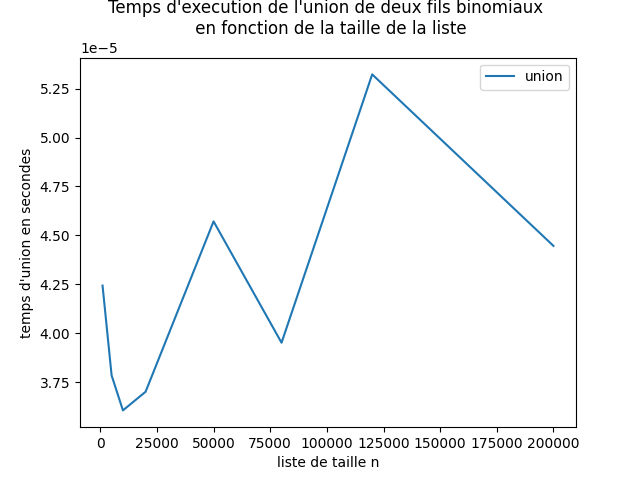
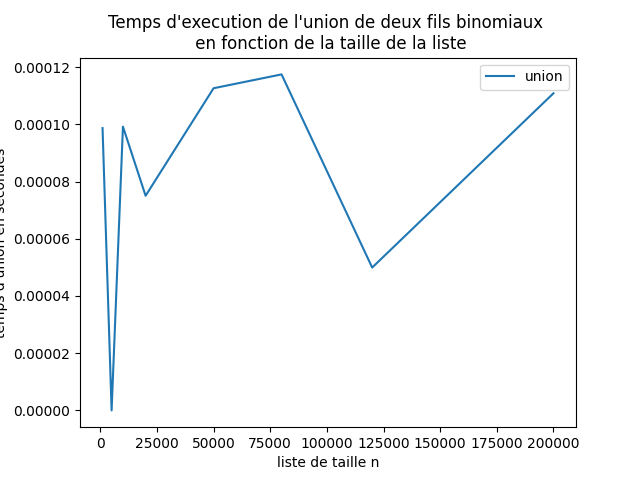
changé le test union file binomial , faut testé avec 1000 et plus

diff --git a/BinomialQueueExperiment.py b/BinomialQueueExperiment.py
@@ -27,14 +27,15 @@ def moyenne_temps_union(list_of_sizes):
         for i in range(1,5 , 1):
             list_of_values1 = st.treat_from_file("cles_alea/jeu_"+str(i)+"_nb_cles_"+str(size)+".txt")
             list_of_values2 = st.treat_from_file("cles_alea/jeu_"+str(i+1)+"_nb_cles_"+str(size)+".txt")
-            binomialQueue1 = BinomialQueue()
-            binomialQueue2 = BinomialQueue()
-            binomialQueue1.construction(list_of_values1)
-            binomialQueue2.construction(list_of_values2)
-            start_time = time.time()
-            binomialQueue1.union(binomialQueue2)
-            end_time = time.time()
-            list_of_times_for_size.append(end_time - start_time)
+            for j in range(10):
+                binomialQueue1 = BinomialQueue()
+                binomialQueue2 = BinomialQueue()
+                binomialQueue1.construction(list_of_values1)
+                binomialQueue2.construction(list_of_values2)
+                start_time = time.time()
+                binomialQueue1.union(binomialQueue2)
+                end_time = time.time()
+                list_of_times_for_size.append(end_time - start_time)
         list_of_times.append(np.mean(list_of_times_for_size))
     return list_of_times
 
@@ -56,14 +57,14 @@ def representation_graphique(abscisse, ordonnee, nom_fichier, xlabe='', ylabe=''
 if __name__ == '__main__':
     
     list_of_sizes = [1000, 5000 ,10000, 20000, 50000, 80000, 120000 ,200000]
-    list_moyenne_temps_construction = moyenne_temps_construction(list_of_sizes)
-    print (list_moyenne_temps_construction)
-    xlabel = "liste de taille n"
-    ylabel = "temps de construction en secondes"
-    titre = "Temps d'execution de la construction d'une fil binomial \n en fonction de la taille de la liste"
-    label = "construction"
-    nom_fichier = "binomialQueue_construction_temps.png"
-    representation_graphique(list_of_sizes, list_moyenne_temps_construction, nom_fichier, xlabel, ylabel, titre, label)    
+    # list_moyenne_temps_construction = moyenne_temps_construction(list_of_sizes)
+    # print (list_moyenne_temps_construction)
+    # xlabel = "liste de taille n"
+    # ylabel = "temps de construction en secondes"
+    # titre = "Temps d'execution de la construction d'une fil binomial \n en fonction de la taille de la liste"
+    # label = "construction"
+    # nom_fichier = "binomialQueue_construction_temps.png"
+    # representation_graphique(list_of_sizes, list_moyenne_temps_construction, nom_fichier, xlabel, ylabel, titre, label)    
     
     list_moyenne_temps_union = moyenne_temps_union(list_of_sizes)
     print (list_moyenne_temps_union)
